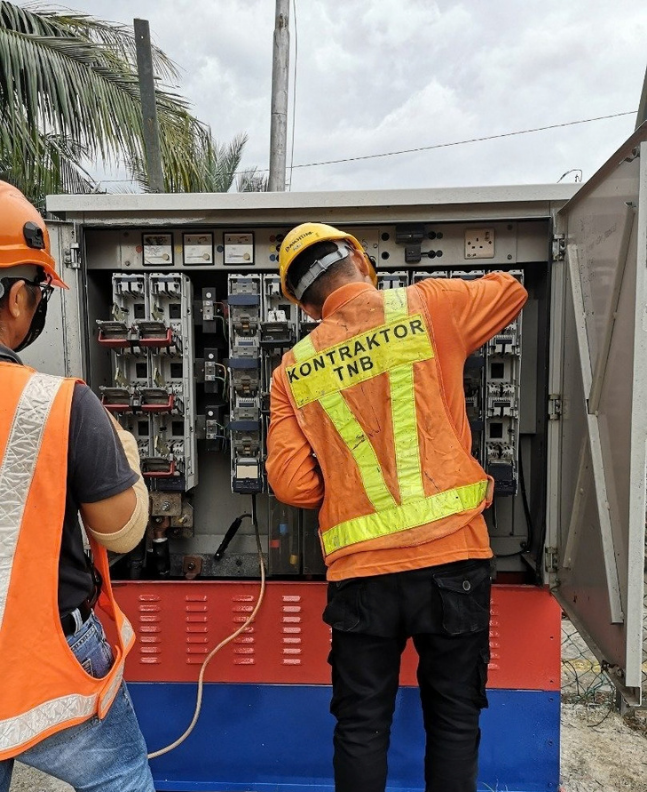
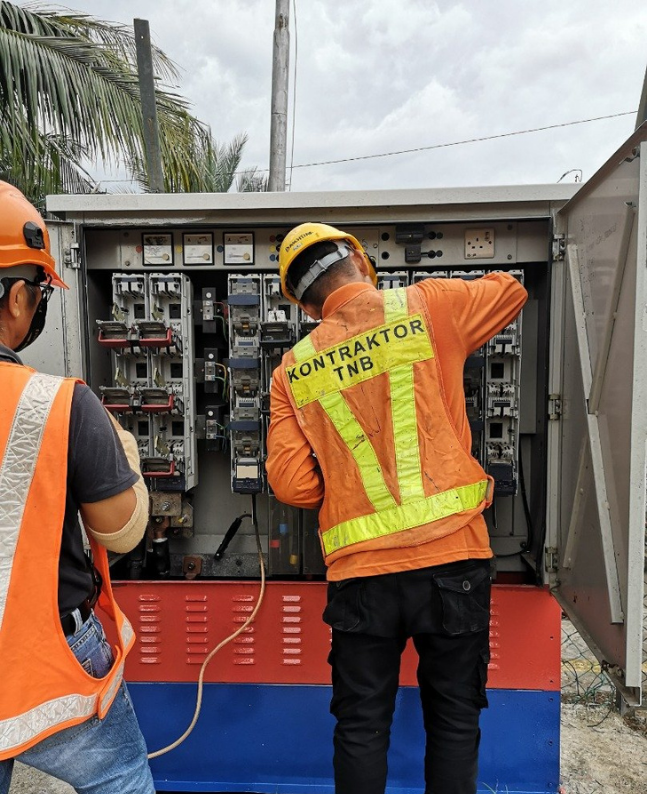
done overall functionality

diff --git a/index.html b/index.html
@@ -21,10 +21,9 @@
     <!-- Brand Accent Line -->
     <div class="brand-accent-bar"></div>
 
-<!-- Navigation Bar -->
+    <!-- Navigation Bar -->
     <nav class="navbar navbar-expand-lg navbar-light bg-white sticky-top py-2 custom-nav-shadow">
         <div class="container">
-            <!-- Left Side: Logo & Company Name -->
             <a class="navbar-brand d-flex align-items-center p-0" href="index.html">
                 <img src="img/logo.png" alt="KCA Logo" style="height: 55px;" class="me-2">
                 <div class="d-none d-sm-block lh-1">
@@ -32,7 +31,6 @@
                 </div>
             </a>
 
-            <!-- Right Side: Clean links (Home & About Us only) + Hamburger -->
             <div class="d-flex align-items-center">
                 <ul class="navbar-nav d-none d-md-flex flex-row me-4 gap-4">
                     <li class="nav-item">
@@ -43,7 +41,6 @@
                     </li>
                 </ul>
                 
-                <!-- Hamburger Icon (Always Visible) -->
                 <button class="navbar-toggler d-block border-0 shadow-none" type="button" data-bs-toggle="offcanvas" data-bs-target="#offcanvasNav" aria-controls="offcanvasNav">
                     <span class="navbar-toggler-icon"></span>
                 </button>
@@ -51,7 +48,7 @@
         </div>
     </nav>
 
-    <!-- Offcanvas Menu (Includes Corporate Profile) -->
+    <!-- Offcanvas Menu -->
     <div class="offcanvas offcanvas-end" tabindex="-1" id="offcanvasNav" aria-labelledby="offcanvasNavLabel">
         <div class="offcanvas-header border-bottom">
             <div class="d-flex align-items-center">
@@ -67,52 +64,48 @@
                 <li class="nav-item"><a class="nav-link fw-bold text-tnb-blue" href="index.html">Home</a></li>
                 <li class="nav-item"><a class="nav-link" href="about.html">About Us</a></li>
                 <li class="nav-item"><a class="nav-link" href="corporate-profile.html">Corporate Profile</a></li>
-                <li class="nav-item"><a class="nav-link" href="#services">Our Services</a></li>
-                <li class="nav-item"><a class="nav-link" href="#projects.html">Projects & Credentials</a></li>
+                <li class="nav-item"><a class="nav-link" href="services.html">Our Services</a></li>
+                <li class="nav-item"><a class="nav-link" href="projects.html">Projects & Credentials</a></li>
+                <li class="nav-item"><a class="nav-link" href="#contact">Contact</a></li>
             </ul>
         </div>
     </div>
 
-    <!-- Automatic Sliding Hero Section -->
-    <header id="heroCarousel" class="carousel slide hero-carousel" data-bs-ride="carousel" data-bs-interval="5000">
+    <!-- 1. Hero Section -->
+    <header id="heroCarousel" class="carousel slide hero-carousel" data-bs-ride="carousel" data-bs-interval="6000">
         <div class="carousel-indicators">
             <button type="button" data-bs-target="#heroCarousel" data-bs-slide-to="0" class="active" aria-current="true" aria-label="Slide 1"></button>
             <button type="button" data-bs-target="#heroCarousel" data-bs-slide-to="1" aria-label="Slide 2"></button>
         </div>
 
         <div class="carousel-inner">
-            <!-- Slide 1: About Us -->
-            <div class="carousel-item active bg-kca-grey">
-                <img src="img/index_about.png" class="d-block w-100 h-100 object-fit-cover" alt="KCA Engineering">
+            <!-- Slide 1 -->
+            <div class="carousel-item active bg-kca-charcoal">
+                <img src="img/about.png" class="d-block w-100 h-100 object-fit-cover" alt="KCA Engineering">
                 <div class="carousel-image-overlay"></div>
-                <div class="carousel-caption d-flex flex-column justify-content-center text-white px-3">
-                    
-                    <h1 class="fw-bold mb-3 fs-2 fs-md-1">Trusted Engineering Solutions</h1>
-                    
-                    <p class="mb-4 mx-auto fs-6 fs-md-5" style="max-width: 850px; text-shadow: 1px 1px 4px rgba(0,0,0,0.9);">
-                        Kejuruteraan Cahaya Abadi Sdn. Bhd. (KCA) is an engineering company specializing in electrical substation works, high and low voltage power systems, and utility maintenance. Trusted by Tenaga Nasional Berhad (TNB), we view every project as a responsibility to safeguard the continuity of the nation’s energy supply.
+                <div class="carousel-caption d-flex flex-column justify-content-center align-items-center text-white px-3">
+                    <h1 class="fw-bold mb-3 display-4">Powering Malaysia's Infrastructure</h1>
+                    <p class="mb-4 fs-5 text-center" style="max-width: 800px; text-shadow: 1px 1px 4px rgba(0,0,0,0.9);">
+                        Delivering high-quality electrical, mechanical, and solar PV solutions supported by experienced technical expertise.
                     </p>
-
-                    <div>
-                        <a href="about.html" class="btn btn-kca-red btn-lg px-4 px-md-5 rounded-pill shadow">Discover KCA</a>
+                    <div class="d-flex gap-3 flex-wrap justify-content-center">
+                        <a href="corporate-profile.html" class="btn btn-kca-red btn-lg px-4 rounded-pill shadow">View Corporate Profile</a>
+                        <a href="#contact" class="btn btn-outline-light btn-lg px-4 rounded-pill shadow">Get in Touch</a>
                     </div>
                 </div>
             </div>
 
-            <!-- Slide 2: Core Expertise -->
-            <div class="carousel-item bg-kca-charcoal">
-                <img src="img/about_us.png" class="d-block w-100 h-100 object-fit-cover" alt="Electrical Systems">
+            <!-- Slide 2 -->
+            <div class="carousel-item bg-navy">
+                <img src="img/index_about.png" class="d-block w-100 h-100 object-fit-cover" alt="Electrical Systems">
                 <div class="carousel-image-overlay"></div>
-                <div class="carousel-caption d-flex flex-column justify-content-center text-white px-3">
-                    
-                    <h1 class="fw-bold mb-3 fs-2 fs-md-1">Comprehensive Engineering</h1>
-                    
-                    <p class="mb-4 mx-auto fs-6 fs-md-5" style="max-width: 800px; text-shadow: 1px 1px 4px rgba(0,0,0,0.9);">
-                        Delivering high-quality and safe technical services that meet industry standards. Specializing in high and low voltage power systems and utility infrastructure.
+                <div class="carousel-caption d-flex flex-column justify-content-center align-items-center text-white px-3">
+                    <h1 class="fw-bold mb-3 display-4">Registered TNB Contractor</h1>
+                    <p class="mb-4 fs-5 text-center" style="max-width: 800px; text-shadow: 1px 1px 4px rgba(0,0,0,0.9);">
+                        Providing electrical and utility infrastructure services for projects related to Tenaga Nasional Berhad (TNB).
                     </p>
-                    
                     <div>
-                        <a href="#services" class="btn btn-kca-red btn-lg px-4 px-md-5 rounded-pill shadow">Our Services</a>
+                        <a href="services.html" class="btn btn-kca-red btn-lg px-4 px-md-5 rounded-pill shadow">Explore All Capabilities</a>
                     </div>
                 </div>
             </div>
@@ -128,66 +121,112 @@
         </button>
     </header>
 
-    <!-- Core Services Preview Section -->
-    <main class="flex-grow-1" id="services">
-        <section class="py-5 bg-light">
-            <div class="container py-4">
-                <div class="text-center mb-5">
-                    <h2 class="fw-bold text-tnb-blue display-6">Our Core Services</h2>
-                    <div class="accent-line"></div>
+    <!-- 2. Core Highlights Section -->
+    <section class="py-5 border-bottom">
+        <div class="container py-3">
+            <div class="row g-4 text-center">
+                <div class="col-md-4">
+                    <h1 class="display-5 fw-bold text-tnb-blue mb-2">2009</h1>
+                    <h5 class="fw-bold text-kca-charcoal">Established</h5>
+                    <p class="text-muted small">Established in Malaysia with expertise in electrical engineering, substation works, power systems and utility infrastructure maintenance.</p>
+                </div>
+                <div class="col-md-4">
+                    <h1 class="display-5 fw-bold text-tnb-red mb-2">G7</h1>
+                    <h5 class="fw-bold text-kca-charcoal">CIDB Certified</h5>
+                    <p class="text-muted small">Registered with the Construction Industry Development Board (CIDB) with G7 certification.</p>
+                </div>
+                <div class="col-md-4">
+                    <h1 class="display-5 fw-bold text-tnb-blue mb-2">TNB</h1>
+                    <h5 class="fw-bold text-kca-charcoal">Registered Vendor</h5>
+                    <p class="text-muted small">Registered with Tenaga Nasional Berhad (TNB) for electrical and energy infrastructure projects.</p>
+                </div>
+            </div>
+        </div>
+    </section>
+
+    <!-- 3. Services Snapshot Teaser -->
+    <section class="py-5 bg-light" id="services-teaser">
+        <div class="container py-4">
+            <div class="text-center mb-5">
+                <h2 class="fw-bold text-tnb-blue display-6">Our Capabilities</h2>
+                <div class="accent-line"></div>
+                <p class="text-muted mt-3 max-w-75 mx-auto">Providing high-quality, fast, and flexible services to meet customer needs.</p>
+            </div>
+            
+            <div class="row g-4 justify-content-center">
+                <div class="col-md-4">
+                    <div class="card h-100 border-0 shadow-sm p-4 rounded-4 service-card">
+                        <div class="card-body text-center">
+                            <h1 class="text-tnb-red mb-3">⚡</h1>
+                            <h5 class="text-tnb-blue fw-bold mb-3">Electrical Systems</h5>
+                            <p class="text-muted small mb-0">Scheduled installation and maintenance of low-voltage electrical systems, including cabling, street lighting, overhead lines, and standby generator systems.</p>
+                        </div>
+                    </div>
                 </div>
                 
-                <div class="row g-4 justify-content-center">
-                    <!-- Service Card 1 -->
-                    <div class="col-md-4">
-                        <div class="card h-100 border-0 shadow-sm text-center p-4 rounded-4 service-card">
-                            <div class="card-body">
-                                <div class="mb-3">
-                                    <h1 class="text-tnb-red">⚡</h1>
-                                </div>
-                                <h4 class="text-tnb-blue fw-bold mb-3">Electrical Systems</h4>
-                                <p class="text-muted mb-4">Installation and maintenance of low-voltage electrical systems, substations, and standby generator systems.</p>
-                            </div>
+                <div class="col-md-4">
+                    <div class="card h-100 border-0 shadow-sm p-4 rounded-4 service-card">
+                        <div class="card-body text-center">
+                            <h1 class="text-tnb-red mb-3">☀</h1>
+                            <h5 class="text-tnb-blue fw-bold mb-3">Solar PV Solutions</h5>
+                            <p class="text-muted small mb-0">Installation and provision of solar systems, supported by KCA's RPVSP and SEDA-related certifications.</p>
                         </div>
                     </div>
-                    
-                    <!-- Service Card 2 -->
-                    <div class="col-md-4">
-                        <div class="card h-100 border-0 shadow-sm text-center p-4 rounded-4 service-card">
-                            <div class="card-body">
-                                <div class="mb-3">
-                                    <h1 class="text-tnb-red">🏢</h1>
-                                </div>
-                                <h4 class="text-tnb-blue fw-bold mb-3">Building Management</h4>
-                                <p class="text-muted mb-4">Comprehensive Mechanical & Electrical (M&E) services, general maintenance, and facility cleaning.</p>
-                            </div>
-                        </div>
-                    </div>
+                </div>
 
-                    <!-- Service Card 3 -->
-                    <div class="col-md-4">
-                        <div class="card h-100 border-0 shadow-sm text-center p-4 rounded-4 service-card">
-                            <div class="card-body">
-                                <div class="mb-3">
-                                    <h1 class="text-tnb-red">☀</h1>
-                                </div>
-                                <h4 class="text-tnb-blue fw-bold mb-3">Solar Systems</h4>
-                                <p class="text-muted mb-4">Specialized provision and installation of sustainable solar PV energy systems.</p>
-                            </div>
+                <div class="col-md-4">
+                    <div class="card h-100 border-0 shadow-sm p-4 rounded-4 service-card">
+                        <div class="card-body text-center">
+                            <h1 class="text-tnb-red mb-3">🏢</h1>
+                            <h5 class="text-tnb-blue fw-bold mb-3">Building Management</h5>
+                            <p class="text-muted small mb-0">Mechanical & Electrical (M&E) services, air conditioning and ventilation systems, building renovation, general maintenance, and area cleaning.</p>
                         </div>
                     </div>
                 </div>
             </div>
-        </section>
-    </main>
+            <div class="text-center mt-5">
+                <a href="services.html" class="btn btn-outline-primary btn-lg rounded-pill px-4 fw-semibold">View All Services</a>
+            </div>
+        </div>
+    </section>
 
-    <!-- Footer Area -->
+<!-- 4. Featured Project Teaser -->
+    <section class="py-5">
+        <div class="container py-5">
+            <!-- Removed align-items-center and added g-0 (zero gutters) -->
+            <div class="row g-0 bg-white rounded-4 shadow-sm overflow-hidden border">
+                
+                <div class="col-lg-5">
+                    <!-- The image will now stretch fully from top to bottom -->
+                    <img src="img/project-kosma-solar-farm.png" alt="KOSMA Solar Farm" class="img-fluid w-100 h-100 object-fit-cover">
+                </div>
+                
+                <!-- Added d-flex flex-column justify-content-center so ONLY the text centers vertically -->
+                <div class="col-lg-7 p-5 d-flex flex-column justify-content-center align-items-start">
+                    <div>
+                        <span class="badge badge-kca-orange mb-3 px-3 py-2 rounded-pill">Featured Project</span>
+                        <h2 class="fw-bold text-tnb-blue mb-3">KOSMA Solar Farm</h2>
+                        <h5 class="text-tnb-red fw-bold mb-4">1MW PV & 4 MW BESS</h5>
+                        <p class="text-muted mb-4">
+                            A solar energy project featuring a 1 Megawatt Photovoltaic (PV) system and a 4 Megawatt Battery Energy Storage System (BESS).
+                        </p>
+                        <a href="projects.html" class="btn btn-kca-red px-4 py-2 rounded-pill shadow-sm">View Project Credentials</a>
+                    </div>
+                </div>
+                
+            </div>
+        </div>
+    </section>
+
+    <!-- 5. Contact Footer -->
     <footer id="contact" class="bg-navy py-5 mt-auto">
         <div class="container text-center text-white">
             <h5 class="fw-bold mb-3" style="font-family: var(--font-headings);">Kejuruteraan Cahaya Abadi Sdn. Bhd.</h5>
-            <p class="mb-2 text-kca-grey">30, Persiaran Perindustrian Pengkalan 2, <br>Kawasan Perindustrian Pengkalan, 31500 Lahat, Ipoh, Perak</p>
+            <p class="mb-2 text-kca-grey">No. 30, Persiaran Perindustrian Pengkalan 2, <br>Kawasan Perindustrian Pengkalan, 31500 Lahat, Ipoh, Perak</p>
             <p class="mb-0 mt-3 text-tnb-orange-light">
-                <strong>Tel:</strong> 05-3218269 &nbsp;|&nbsp; <strong>Email:</strong> info@kcasolar.com &nbsp;|&nbsp; <strong>Website:</strong> www.kcasolar.com
+                <strong>Tel:</strong> 05-3218269 &nbsp;|&nbsp; <strong>Fax:</strong> 05-3217108<br class="d-md-none">
+                <span class="d-none d-md-inline">&nbsp;|&nbsp;</span>
+                <strong>Email:</strong> info@kcasolar.com &nbsp;|&nbsp; <strong>Website:</strong> www.kcasolar.com
             </p>
         </div>
     </footer>

diff --git a/projects.html b/projects.html
@@ -21,7 +21,7 @@
     <!-- Brand Accent Line -->
     <div class="brand-accent-bar"></div>
 
-    <!-- Navigation Bar -->
+<!-- Navigation Bar -->
     <nav class="navbar navbar-expand-lg navbar-light bg-white sticky-top py-2 custom-nav-shadow">
         <div class="container">
             <!-- Left Side: Logo & Company Name -->
@@ -69,6 +69,7 @@
                 <li class="nav-item"><a class="nav-link" href="corporate-profile.html">Corporate Profile</a></li>
                 <li class="nav-item"><a class="nav-link" href="services.html">Our Services</a></li>
                 <li class="nav-item"><a class="nav-link fw-bold text-tnb-blue" href="projects.html">Projects & Credentials</a></li>
+                <li class="nav-item"><a class="nav-link" href="#contact">Contact</a></li>
             </ul>
         </div>
     </div>
@@ -533,7 +534,7 @@
     <footer id="contact" class="bg-navy py-5 mt-auto">
         <div class="container text-center text-white">
             <h5 class="fw-bold mb-3" style="font-family: var(--font-headings);">Kejuruteraan Cahaya Abadi Sdn. Bhd.</h5>
-            <p class="mb-2 text-white-50">30, Persiaran Perindustrian Pengkalan 2, <br>Kawasan Perindustrian Pengkalan, 31500 Lahat, Ipoh, Perak[cite: 4]</p>
+            <p class="mb-2 text-white-50">30, Persiaran Perindustrian Pengkalan 2, <br>Kawasan Perindustrian Pengkalan, 31500 Lahat, Ipoh, Perak</p>
             <p class="mb-0 mt-3 text-tnb-orange-light">
                 <strong>Tel:</strong> 05-3218269 &nbsp;|&nbsp; <strong>Email:</strong> info@kcasolar.com &nbsp;|&nbsp; <strong>Website:</strong> www.kcasolar.com
             </p>
@@ -541,6 +542,6 @@
     </footer>
 
     <!-- Bootstrap 5 JS Bundle -->
-    <script src="https://cdn.jsdelivr.net/npm/bootstrap@5.3.2/dist/css/bootstrap.min.js"></script>
+        <script src="https://cdn.jsdelivr.net/npm/bootstrap@5.3.2/dist/js/bootstrap.bundle.min.js"></script>
 </body>
 </html>

diff --git a/corporate-profile.html b/corporate-profile.html
@@ -21,7 +21,7 @@
     <!-- Brand Accent Line -->
     <div class="brand-accent-bar"></div>
 
-    <!-- Navigation Bar -->
+<!-- Navigation Bar -->
     <nav class="navbar navbar-expand-lg navbar-light bg-white sticky-top py-2 custom-nav-shadow">
         <div class="container">
             <!-- Left Side: Logo & Company Name -->
@@ -67,7 +67,8 @@
                 <li class="nav-item"><a class="nav-link" href="index.html">Home</a></li>
                 <li class="nav-item"><a class="nav-link" href="about.html">About Us</a></li>
                 <li class="nav-item"><a class="nav-link fw-bold text-tnb-blue" href="corporate-profile.html">Corporate Profile</a></li>
-                <li class="nav-item"><a class="nav-link" href="index.html#services">Our Services</a></li>
+                <li class="nav-item"><a class="nav-link" href="services.html">Our Services</a></li>
+                <li class="nav-item"><a class="nav-link" href="projects.html">Projects & Credentials</a></li>
                 <li class="nav-item"><a class="nav-link" href="#contact">Contact</a></li>
             </ul>
         </div>

diff --git a/about.html b/about.html
@@ -21,7 +21,7 @@
     <!-- Brand Accent Line -->
     <div class="brand-accent-bar"></div>
 
-    <!-- Navigation Bar -->
+<!-- Navigation Bar -->
     <nav class="navbar navbar-expand-lg navbar-light bg-white sticky-top py-2 custom-nav-shadow">
         <div class="container">
             <!-- Left Side: Logo & Company Name -->

diff --git a/services.html b/services.html
@@ -22,7 +22,7 @@
     <!-- Brand Accent Line -->
     <div class="brand-accent-bar"></div>
 
-    <!-- Navigation Bar -->
+<!-- Navigation Bar -->
     <nav class="navbar navbar-expand-lg navbar-light bg-white sticky-top py-2 custom-nav-shadow">
         <div class="container">
             <!-- Left Side: Logo & Company Name -->
